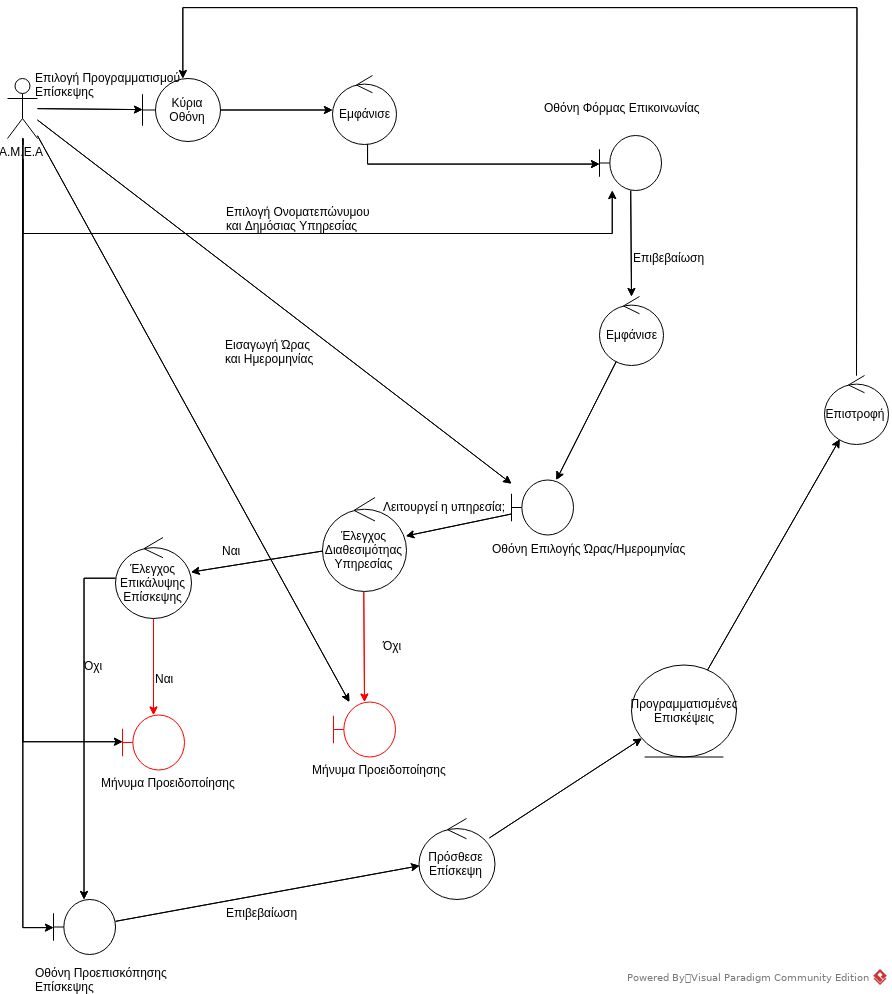
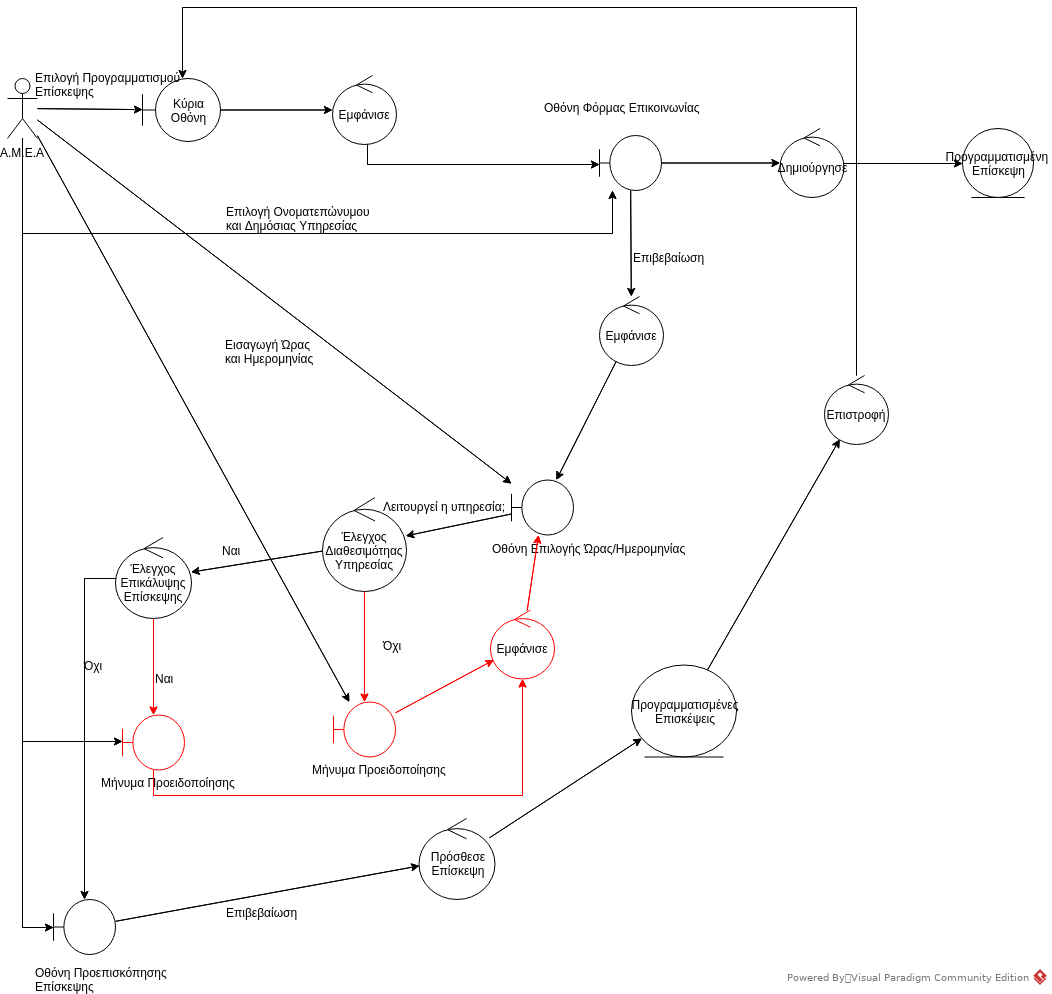
Added sequence, modified use-cases and robustness for 7,8,9

diff --git a/Use-cases.md b/Use-cases.md
@@ -167,14 +167,14 @@ Markdown, VSCode, GanttProject, Pandoc, Lightshot, [Table generator](https://www
 7. Το σύστημα αποστέλει την προγραμματισμένη επίσκεψη στην κατάλληλη υπηρεσία και επιστρέφει το χρήστη στην αρχική οθόνη.
 
 ### Εναλλακτική Ροή 1
-5.1.1. Το σύστημα διαπιστώνει ότι ο χρήστης έχει επιλέξει επικαλυπτόμενη ημερομηνία και ώρα.  
-5.1.2. Το σύστημα εμφανίζει το μήνυμα προειδοποίησης ότι υπάρχει άλλη προγραμματισμένη επίσκεψη εκείνη την ώρα.
-5.1.3. Η περίπτωση χρήσης συνεχίζεται από το Βήμα 5 της Βασικής Ροής.
+6.1.1. Το σύστημα διαπιστώνει ότι ο χρήστης έχει επιλέξει επικαλυπτόμενη ημερομηνία και ώρα.  
+6.1.2. Το σύστημα εμφανίζει το μήνυμα προειδοποίησης ότι υπάρχει άλλη προγραμματισμένη επίσκεψη εκείνη την ώρα.
+6.1.3. Η περίπτωση χρήσης συνεχίζεται από το Βήμα 5 της Βασικής Ροής.
 
 ### Εναλλακτική Ροή 2
-5.2.1. Το σύστημα διαπιστώνει ότι ο χρήστης έχει επιλέξει ημερομηνία και ώρα μη λειτουργίας της υπηρεσίας.  
-5.2.2. Το σύστημα εμφανίζει το μήνυμα προειδοποίησης μη λειτουργίας της υπηρεσίας. 
-5.2.3. Η περίπτωση χρήσης συνεχίζεται από το Βήμα 5 της Βασικής Ροής.  
+6.2.1. Το σύστημα διαπιστώνει ότι ο χρήστης έχει επιλέξει ημερομηνία και ώρα μη λειτουργίας της υπηρεσίας.  
+6.2.2. Το σύστημα εμφανίζει το μήνυμα προειδοποίησης μη λειτουργίας της υπηρεσίας. 
+6.2.3. Η περίπτωση χρήσης συνεχίζεται από το Βήμα 5 της Βασικής Ροής.  
 
 ----------------------------------------------------
 
@@ -219,19 +219,19 @@ Markdown, VSCode, GanttProject, Pandoc, Lightshot, [Table generator](https://www
 3.1.3. Ο χρήστης αφού εξετάσει τη πρόταση επιλέγει "Like".
 3.1.4. Το σύστημα προσθέτει την πρόταση στη λίστα με τις αγαπημένες του προτάσεις.
 3.1.5. Ο χρήστης επιλέγει "Επιστροφή".
-3.1.6. Το σύστημα τον επιστρέφει στη λίστα με τις προτάσεις.
+3.1.6. To σύστημα επιστρέφει το χρήστη στην αρχική οθόνη του συστήματος.
 
 ### Εναλλακτική ροή 2
-3.1.1. Ο χρήστης επεξεργάζεται μία πρόταση εφ'όσον την έχει δημιουργήσει ο ίδιος, επιλέγοντας "Επεξεργασία"
-3.1.2. Το σύστημα εμφανίζει την πρόταση και τα στοιχεία της.  
-3.1.3. Ο χρήστης επιλέγει "Αλλαγή Κριτικής", επεξεργάζεται την υπάρχουσα κριτική και πατάει "Αποθήκευση".  
-3.1.4. Το σύστημα αποθηκεύει τη πρόταση όπως προέκυψε μετά την αλλαγή.  
-3.1.5. Η περίπτωση χρήσης συνεχίζει από το Βήμα 3 της Βασικής Ροής.
+3.2.1. Ο χρήστης επεξεργάζεται μία πρόταση εφ'όσον την έχει δημιουργήσει ο ίδιος, επιλέγοντας "Επεξεργασία"
+3.2.2. Το σύστημα εμφανίζει την πρόταση και τα στοιχεία της.  
+3.2.3. Ο χρήστης επιλέγει "Αλλαγή Κριτικής", επεξεργάζεται την υπάρχουσα κριτική και πατάει "Αποθήκευση".  
+3.2.4. Το σύστημα αποθηκεύει τη πρόταση όπως προέκυψε μετά την αλλαγή.  
+3.2.5. To σύστημα επιστρέφει το χρήστη στην αρχική οθόνη του συστήματος.
 
 ### Εναλλακτική Ροή 3
-3.2.1. Ο χρήστης διαγράφει μία πρόταση εφ'όσον την έχει δημιουργήσει ο ίδιος, επιλέγοντας "Διαγραφή".
-3.2.2. Το σύστημα ενημερώνει τη λίστα με τις προτάσεις.  
-3.2.3. Η περίπτωση χρήσης συνεχίζει από το Βήμα 3 της Βασικής Ροής.  
+3.3.1. Ο χρήστης διαγράφει μία πρόταση εφ'όσον την έχει δημιουργήσει ο ίδιος, επιλέγοντας "Διαγραφή".
+3.3.2. Το σύστημα ενημερώνει τη λίστα με τις προτάσεις.  
+3.3.3. To σύστημα επιστρέφει το χρήστη στην αρχική οθόνη του συστήματος. 
 
 ----------------------------------------------------
 
